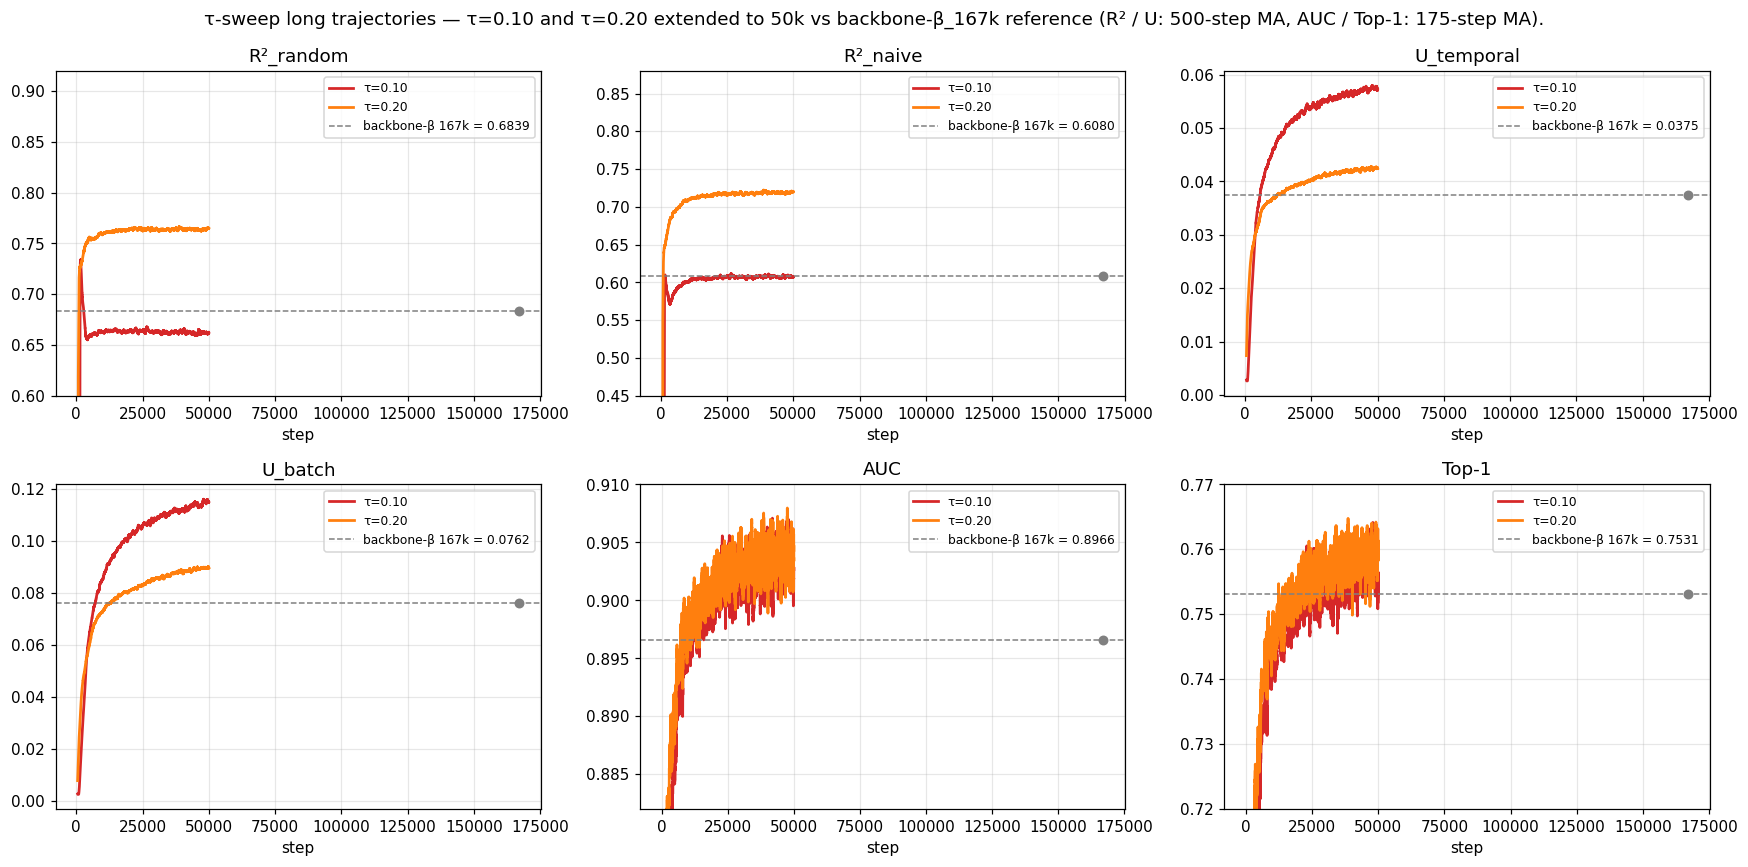
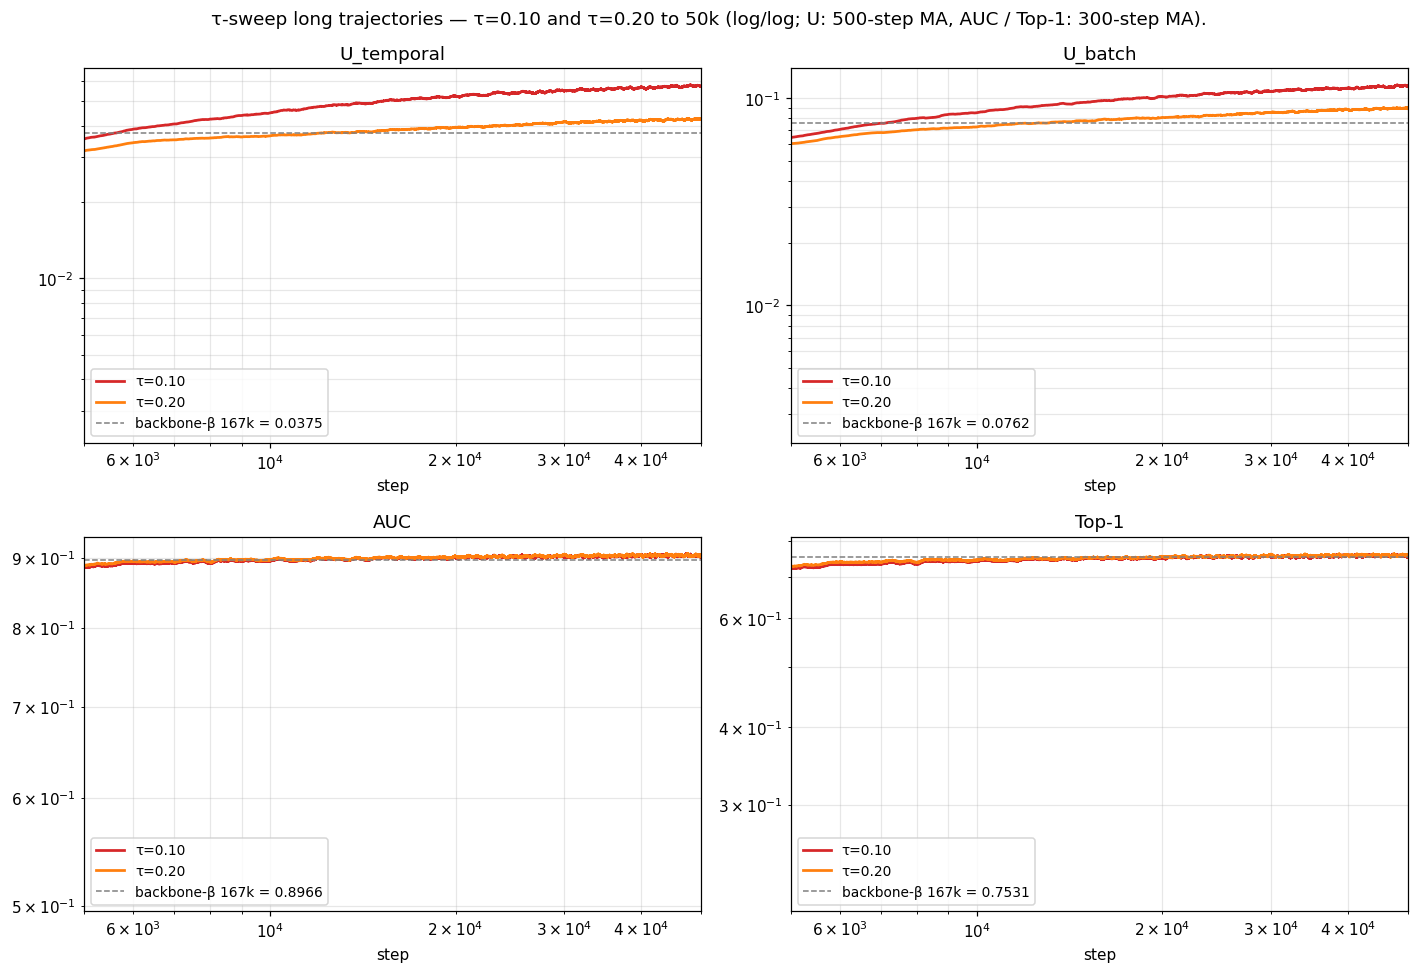
plot(long): 4-panel log/log (U_t/U_b/AUC/Top-1), x∈[5k,50k], heavier AUC smoothing (#242)
User feedback on the long-window plot only:
- Drop R²_random / R²_naive panels (covered by the held-out box plot;
  long trajectory adds no extra signal there).
- Keep U_temporal, U_batch, AUC, Top-1 — 2×2 panels.
- Both axes log scale per panel.
- x-window 5k–50k (drops the early-training transient).
- AUC / Top-1 smoothing 175 → 300-step MA.
- Drop the step-167k backbone-β marker dot (off-screen at x≤50k);
  reference line stays as a horizontal dashed line.

Short-trajectory plot (`plot_tau_sweep_v2.py`) untouched.

«Agent Opus 4.7 (1M context) writing»

diff --git a/experiments/2026-05-08_exp_tau_sweep/scripts/plot_tau_sweep_long.py b/experiments/2026-05-08_exp_tau_sweep/scripts/plot_tau_sweep_long.py
@@ -122,19 +122,21 @@ def main() -> None:
         if t is not None:
             traj[label] = t
 
-    # Per-metric panels — same zooms as the short-trajectory plot.
+    # 2×2 panels: U_temporal, U_batch, AUC, Top-1. R² panels removed —
+    # the held-out box plot already covers R² and the long-window
+    # trajectory adds no extra signal there. Both axes log; x window
+    # 5k–50k (drops the early-training transient where AUC starts near
+    # chance and obscures the converged region).
     metrics = [
-        ("r2_random", "R²_random", (0.60, 0.92), BETA["r2_random"], 500),
-        ("r2_naive",  "R²_naive",  (0.45, 0.88), BETA["r2_naive"],  500),
-        ("u_temporal", "U_temporal", None,       BETA["u_temporal"], 500),
-        ("u_batch",   "U_batch",     None,       BETA["u_batch"],    500),
-        ("auc",       "AUC",        (0.882, 0.910), BETA["auc"],    175),
-        ("top1",      "Top-1",      (0.72, 0.77),   BETA["top1"],   175),
+        ("u_temporal", "U_temporal", BETA["u_temporal"], 500),
+        ("u_batch",   "U_batch",     BETA["u_batch"],    500),
+        ("auc",       "AUC",         BETA["auc"],        300),
+        ("top1",      "Top-1",       BETA["top1"],       300),
     ]
 
-    fig, axs = plt.subplots(2, 3, figsize=(16, 8))
+    fig, axs = plt.subplots(2, 2, figsize=(13, 9))
     axs = axs.flatten()
-    for ax, (key, title, ylim, beta_ref, smooth_w) in zip(axs, metrics):
+    for ax, (key, title, beta_ref, smooth_w) in zip(axs, metrics):
         for label, color, _ in ARMS:
             t = traj.get(label)
             if t is None:
@@ -144,23 +146,19 @@ def main() -> None:
             x = t["step"][len(t["step"]) - len(sm):] if len(sm) > 0 else t["step"]
             ax.plot(x, sm if len(sm) > 0 else arr, color=color,
                     label=label, linewidth=1.8)
-        # backbone-β reference line. Marked at step 167000 with a dot so
-        # the reader sees both the value and the step at which it was
-        # measured.
+        # backbone-β reference line. Dashed across the visible window.
         ax.axhline(beta_ref, color="gray", linestyle="--", linewidth=1.0,
                    label=f"backbone-β 167k = {beta_ref:.4f}")
-        ax.scatter([167000], [beta_ref], color="gray", marker="o",
-                   s=30, zorder=5)
         ax.set_title(title)
+        ax.set_xscale("log")
+        ax.set_yscale("log")
+        ax.set_xlim(5000, 50000)
         ax.set_xlabel("step")
-        if ylim is not None:
-            ax.set_ylim(bottom=ylim[0], top=ylim[1])
-        ax.grid(alpha=0.3)
-        ax.legend(loc="best", fontsize=8)
+        ax.grid(alpha=0.3, which="both")
+        ax.legend(loc="best", fontsize=9)
     fig.suptitle(
-        "τ-sweep long trajectories — τ=0.10 and τ=0.20 extended to 50k "
-        "vs backbone-β_167k reference (R² / U: 500-step MA, AUC / Top-1: "
-        "175-step MA).",
+        "τ-sweep long trajectories — τ=0.10 and τ=0.20 to 50k "
+        "(log/log; U: 500-step MA, AUC / Top-1: 300-step MA).",
         fontsize=12)
     fig.tight_layout()
     fig.savefig(OUT, dpi=110, bbox_inches="tight")
